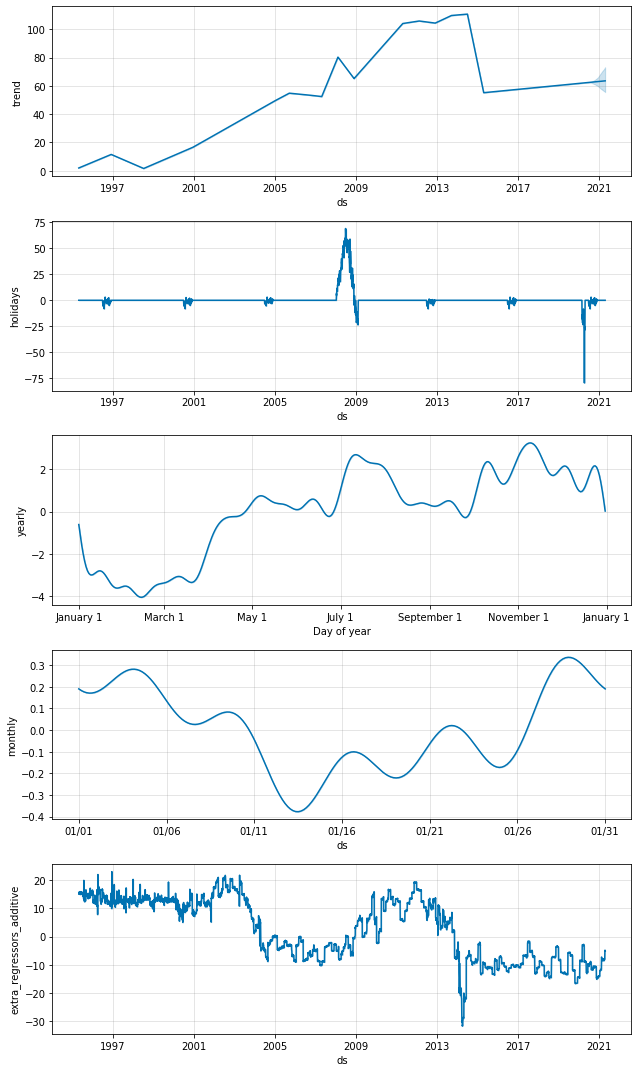
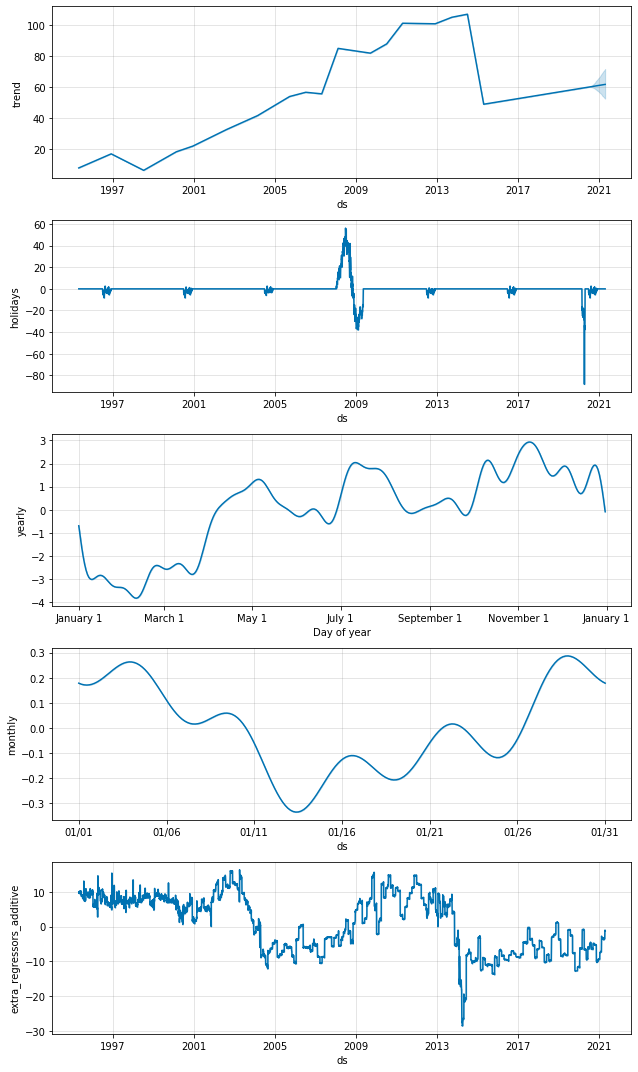
Update model_building_prophet

diff --git a/model_building_prophet.py b/model_building_prophet.py
@@ -153,6 +153,12 @@ cpi["cpi_diff"] = cpi_diff['adjust']
 cpi = cpi.set_index('Label')
 cpi = cpi.resample('D').ffill()
 
+saudi_production = pd.read_csv('D:/USA 2020 summer/Machine Learning/ds_oil_price_proj/data/saudi-arabia-crude-oil-production-chart.csv',skiprows=15,parse_dates =["date"], index_col ="date")
+saudi_production.rename(columns={' value':'saudi_production'}, 
+                 inplace=True)
+saudi_production = saudi_production.resample('D').ffill()
+
+
 fed_fund = pd.read_csv('D:/USA 2020 summer/Machine Learning/ds_oil_price_proj/data/fed-funds-rate-historical-chart.csv',skiprows=15,parse_dates =["date"], index_col ="date")
 fed_fund.rename(columns={' value':'fed_fund'}, 
                  inplace=True)
@@ -169,7 +175,7 @@ wti1.rename(columns={'Price':'wti_price',"Vol.":"wti_volumn"},
                  inplace=True)
 wti_oil_price= pd.concat([wti1,wti])
 
-data_with_regressors= pd.concat([wti_oil_price["wti_price"],monetary_base["monetary_base_diff"],cpi["cpi_diff"],fed_fund], axis=1)
+data_with_regressors= pd.concat([wti_oil_price["wti_price"],monetary_base["monetary_base_diff"],cpi["cpi_diff"],fed_fund,saudi_production], axis=1)
 data_with_regressors=data_with_regressors.loc['1995-05-01':"2020-04-30"]
 data_with_regressors = data_with_regressors.reset_index()
 data_with_regressors = data_with_regressors[data_with_regressors['index'].dt.weekday < 5]
@@ -215,7 +221,7 @@ model_imporvement2.add_seasonality(name='monthly', period=30.5, fourier_order=5)
 model_imporvement2.add_regressor('monetary_base_diff')
 model_imporvement2.add_regressor('cpi_diff')
 model_imporvement2.add_regressor('fed_fund')
-#model_imporvement2.add_regressor('bond_5year')
+model_imporvement2.add_regressor('saudi_production')
 #model_imporvement2.add_regressor('fuel_price', mode='multiplicative')
 #model_imporvement2.add_regressor('saudi_production', mode='multiplicative')
 #weekly_seasonality=False,  .add_seasonality(name='monthly', period=30.5, fourier_order=5),  changepoint_range=0.9, changepoint_prior_scale=0.5, .add_country_holidays(country_name='US')
@@ -229,8 +235,8 @@ future_imporvement2["cpi_diff"] = data_with_regressors["cpi_diff"]
 future_imporvement2["cpi_diff"]= future_imporvement2["cpi_diff"].fillna(method='pad')
 future_imporvement2["fed_fund"] = data_with_regressors["fed_fund"]
 future_imporvement2["fed_fund"] = future_imporvement2["fed_fund"].fillna(method='pad')
-#future_imporvement2["bond_5year"] = data_with_regressors["bond_5year"]
-#future_imporvement2["bond_5year"] = future_imporvement2["bond_5year"].fillna(method='pad')
+future_imporvement2["saudi_production"] = data_with_regressors["saudi_production"]
+future_imporvement2["saudi_production"] = future_imporvement2["saudi_production"].fillna(method='pad')
 #future_imporvement2["saudi_production"] = data_with_regressors["saudi_production"]
 #future_imporvement2["saudi_production"] = future_imporvement2["saudi_production"].fillna(method='pad')
 #future_imporvement['on_season'] = future_imporvement['ds'].apply(is_nfl_season)
